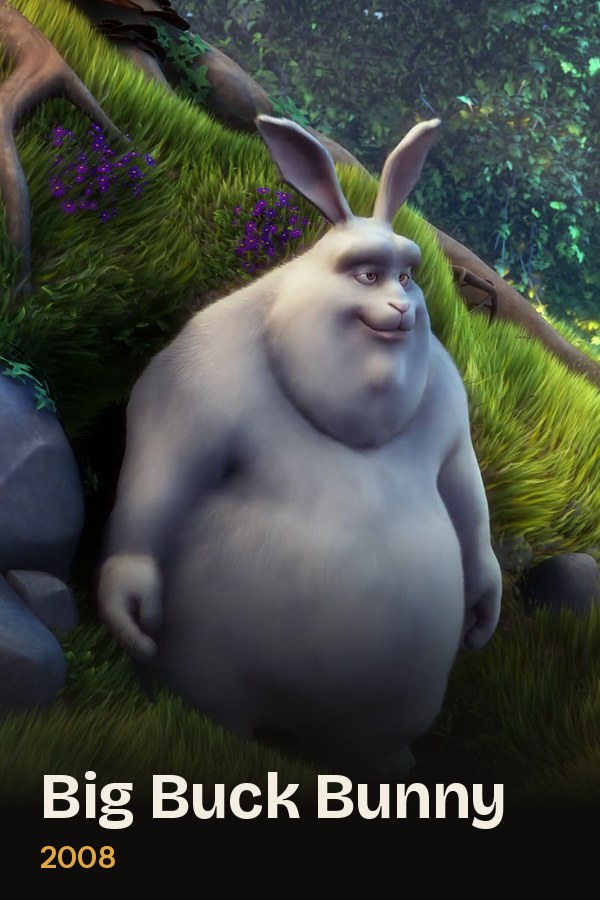
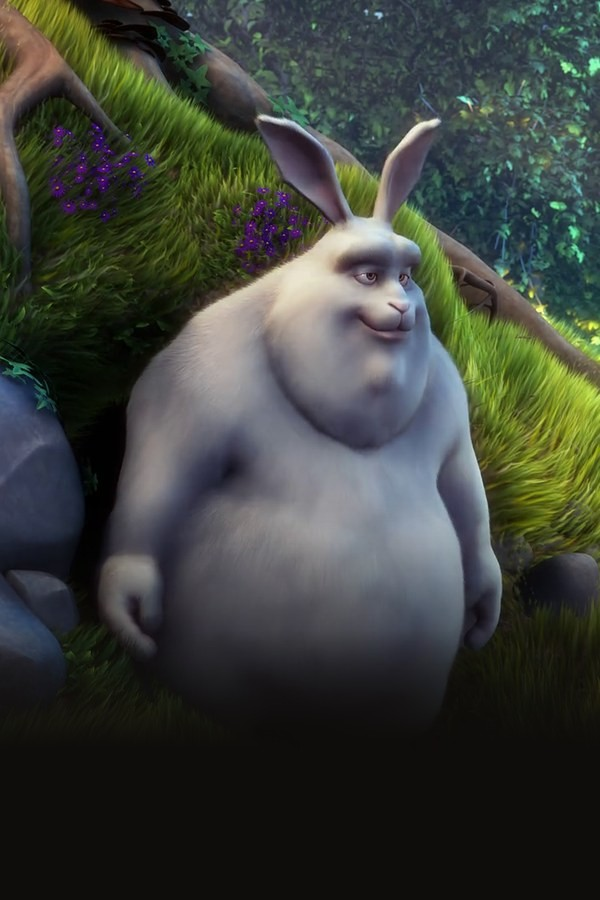
Démo : lien de Big Buck Bunny réparé, affiches sans texte, chaîne Orbis Ciné sans incrustation
- Big Buck Bunny : le fichier .mp4 n'existe plus chez Blender (seulement un .zip), remplacé par la copie 720p de l'Internet Archive
- Elephants Dream et Sintel : liens vers des fichiers vérifiés (H.264 pour Elephants Dream)
- affiches sans titre (l'appli l'écrit déjà par-dessus), adresses versionnées pour vider le cache de l'appli
- Orbis Ciné passe sur le flux de test Mux (le flux Unified Streaming incruste son logo et des infos techniques)

Claude-Session: https://claude.ai/code/session_019F9uWymZ9tttGNvQg3zkBB

Changed region(s): [[0.0, 0.7778, 0.84, 0.9644], [0.99, 0.8089, 1.0, 0.84], [0.72, 0.7778, 0.75, 0.8089]]

diff --git a/tools/catalog.py b/tools/catalog.py
@@ -13,13 +13,13 @@ PAGES = "https://gregmichmuch.github.io/kinelia-demo"
 # ---------------------------------------------------------------------------
 FILMS = [
     dict(slug="big-buck-bunny", title="Big Buck Bunny", year=2008, group="Animation",
-         url="https://download.blender.org/demo/movies/BBB/bbb_sunflower_1080p_30fps_normal.mp4",
+         url="https://archive.org/download/BigBuckBunny_124/Content/big_buck_bunny_720p_surround.mp4",
          author="Blender Foundation", licence="CC BY 3.0", existing=True),
     dict(slug="elephants-dream", title="Elephants Dream", year=2006, group="Sci-Fi",
-         url="https://download.blender.org/ED/ED_1024.avi",
+         url="https://download.blender.org/ED/elephantsdream-720-h264-st-aac.mov",
          author="Blender Foundation / Netherlands Media Art Institute", licence="CC BY 2.5", existing=True),
     dict(slug="sintel", title="Sintel", year=2010, group="Fantasy",
-         url="https://download.blender.org/durian/movies/Sintel.2010.1080p.mkv",
+         url="https://download.blender.org/demo/movies/Sintel.2010.1080p.mkv",
          author="Blender Foundation", licence="CC BY 3.0", existing=True),
     dict(slug="tears-of-steel", title="Tears of Steel", year=2012, group="Sci-Fi",
          url="https://download.blender.org/demo/movies/ToS/tears_of_steel_720p.mov",
@@ -73,7 +73,7 @@ SERIES = [
 # ---------------------------------------------------------------------------
 CHANNELS = [
     dict(id="orbis-cine.demo", name="Orbis Ciné", group="Cinema", logo="orbis-cine",
-         url="https://demo.unified-streaming.com/k8s/features/stable/video/tears-of-steel/tears-of-steel.ism/.m3u8",
+         url="https://test-streams.mux.dev/tos_ismc/main.m3u8",
          colors=("#1b1f3b", "#e3a740"), mark="ORBIS\nCINÉ"),
     dict(id="pixelia-kids.demo", name="Pixelia Kids", group="Kids", logo="pixelia-kids",
          url="https://test-streams.mux.dev/x36xhzz/x36xhzz.m3u8",
@@ -82,7 +82,7 @@ CHANNELS = [
          url="https://ireplay.tv/test/blender.m3u8",
          colors=("#7b2cbf", "#f7f1ff"), mark="LUMO"),
     dict(id="meridian.demo", name="Meridian Discovery", group="Discovery", logo="meridian",
-         url="https://test-streams.mux.dev/tos_ismc/main.m3u8",
+         url="https://demo.unified-streaming.com/k8s/features/stable/video/tears-of-steel/tears-of-steel.ism/.m3u8",
          colors=("#0f4c5c", "#9ad1d4"), mark="MERIDIAN"),
     dict(id="vela.demo", name="Vela Maison", group="Lifestyle", logo="vela",
          url="https://cph-p2p-msl.akamaized.net/hls/live/2000341/test/master.m3u8",

diff --git a/tools/build_playlist.py b/tools/build_playlist.py
@@ -18,15 +18,15 @@ lines = [
     "# ---------- Movies ----------",
 ]
 for f in FILMS:
-    lines.append(f'#EXTINF:-1 tvg-logo="{PAGES}/posters/{f["slug"]}.jpg" group-title="{f["group"]}",{f["title"]} ({f["year"]})')
+    lines.append(f'#EXTINF:-1 tvg-logo="{PAGES}/posters/{f["slug"]}.jpg?v=2" group-title="{f["group"]}",{f["title"]} ({f["year"]})')
     lines.append(f["url"])
 lines += ["", '# ---------- Series (episodes recognized by "S01E01" in the title) ----------']
 for s in SERIES:
-    lines.append(f'#EXTINF:-1 tvg-logo="{PAGES}/posters/caminandes.jpg" group-title="Kids & Family",{s["title"]}')
+    lines.append(f'#EXTINF:-1 tvg-logo="{PAGES}/posters/caminandes.jpg?v=2" group-title="Kids & Family",{s["title"]}')
     lines.append(s["url"])
 lines += ["", "# ---------- Live TV (public test streams, invented channel names) ----------"]
 for c in CHANNELS:
-    lines.append(f'#EXTINF:-1 tvg-id="{c["id"]}" tvg-logo="{PAGES}/posters/{c["logo"]}.png" group-title="{c["group"]}",{c["name"]}')
+    lines.append(f'#EXTINF:-1 tvg-id="{c["id"]}" tvg-logo="{PAGES}/posters/{c["logo"]}.png?v=2" group-title="{c["group"]}",{c["name"]}')
     lines.append(c["url"])
 
 (ROOT / "demo.m3u").write_text("\n".join(lines) + "\n", encoding="utf-8")

diff --git a/tools/make_artwork.py b/tools/make_artwork.py
@@ -2,8 +2,8 @@
 
 Run: python3 tools/make_artwork.py <fonts_dir>
 Fonts: Bricolage Grotesque and Instrument Sans (SIL Open Font License).
-Posters are original typographic designs made for this demo: they contain no
-frame, logo or artwork from the films.
+Posters are original abstract designs made for this demo, without any text (the app
+writes the title itself): they contain no frame, logo or artwork from the films.
 """
 import math
 import random
@@ -134,14 +134,7 @@ def poster(film):
     for y in range(560, H):
         sd.line([(0, y), (W, y)], fill=(0, 0, 0, int(200 * (y - 560) / (H - 560))))
     img = Image.alpha_composite(img, shade)
-    d = ImageDraw.Draw(img)
-    light = (250, 246, 240)
-    title = wrap_title(film["title"])
-    tf = fit_font(d, title, TITLE, W - 80, 96)
-    d.multiline_text((W // 2, 700 if "\n" in title else 740), title, font=tf, fill=light, anchor="mm", align="center", spacing=6)
-    small = ImageFont.truetype(TEXT, 22)
-    d.text((W // 2, 845), f"{film['author'].split(' /')[0]}  ·  {film['year']}", font=small,
-           fill=light + (200,), anchor="mm")
+    # No text on the poster: the app writes the title over it.
     img.convert("RGB").save(OUT / f"{film['slug']}.jpg", quality=90)
 
 

diff --git a/README.md b/README.md
@@ -41,9 +41,10 @@ License texts: https://creativecommons.org/licenses/
 
 Logos and trademarks (including the Blender, project and Creative Commons logos) are not covered by these licenses and are not used here.
 Posters of Big Buck Bunny, Sintel, Elephants Dream, Sprite Fright and Caminandes in `posters/` are still frames taken from
-the works above, cropped and with the title added (changes made for this demo); they are shared under the same license
-as the work they come from. The other film posters are original typographic designs made for this demo
-(`tools/make_artwork.py`): they contain no frame, logo or artwork from the films.
+the works above, cropped and faded to black at the bottom (changes made for this demo); they are shared under the same
+license as the work they come from. The other film posters are original abstract designs made for this demo
+(`tools/make_artwork.py`): they contain no frame, logo or artwork from the films. Posters carry no text, because
+the app writes the title over them.
 Channel logos were created for this demo. Channel names (Orbis Ciné, Pixelia Kids, Lumo Animation, Meridian Discovery,
 Vela Maison) and every programme of the TV guide are invented.
 
